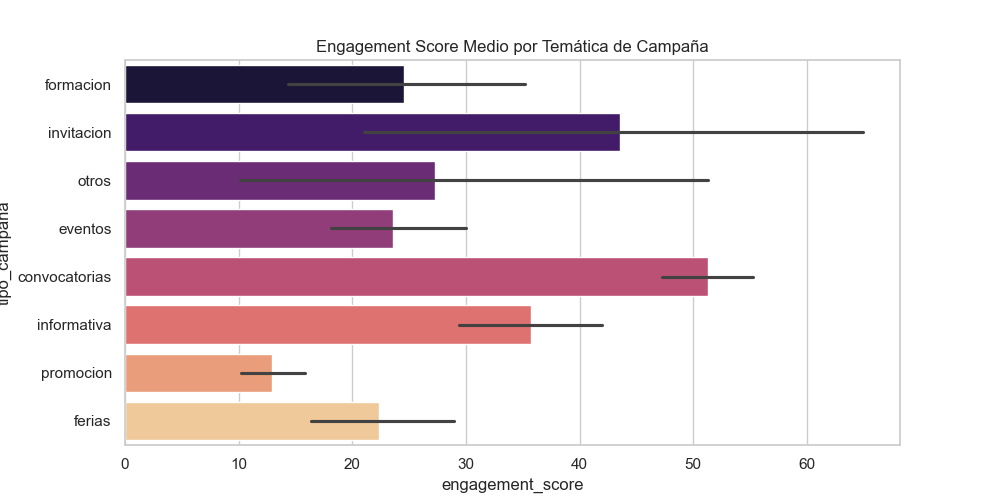
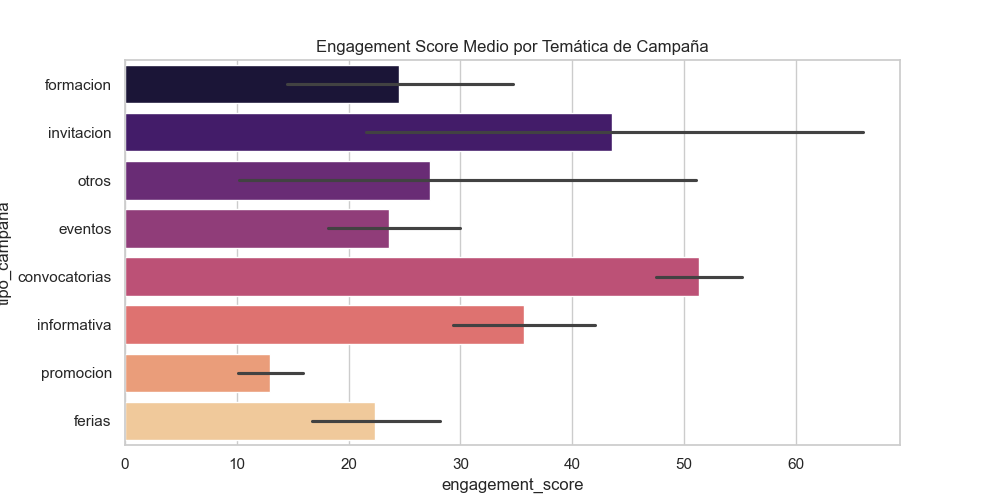
redondeo decimal

diff --git a/scripts/limpiar_datos.py b/scripts/limpiar_datos.py
@@ -2,72 +2,142 @@
 import pandas as pd
 import numpy as np
 import os
+import logging
 from scripts.utils import clasificar_campaña, clasificar_publico
 
-def limpiar_y_transformar(raw_path, processed_path):
-    """Ejecuta el pipeline de limpieza y transformación de datos."""
-    print(f"Cargando datos desde: {raw_path}...")
+# Configuración de logging
+logging.basicConfig(
+    level=logging.INFO,
+    format='%(asctime)s - %(levelname)s - %(message)s'
+)
+logger = logging.getLogger(__name__)
+
+class DataCleaner:
+    """
+    Clase para gestionar la carga, limpieza y transformación de datos de marketing.
+    """
     
-    if not os.path.exists(raw_path):
-        raise FileNotFoundError(f"Archivo no encontrado: {raw_path}")
+    def __init__(self, raw_path, processed_path):
+        self.raw_path = raw_path
+        self.processed_path = processed_path
+        self.df = None
         
-    # Cargar datos (saltando las 3 primeras filas de metadatos del exportador)
-    df = pd.read_csv(raw_path, sep=";", engine="python", skiprows=3)
-    
-    # Normalizar nombres de columnas (antes de borrar para evitar errores de case)
-    df.columns = df.columns.str.strip().str.lower().str.replace(" ", "_").str.replace("-", "_")
-    
-    # Eliminar columnas irrelevantes
-    cols_to_drop = [
-        "name_from", "email_from", "hard_bounces", 
-        "soft_bounces", "non_delivered", "delivered", 
-        "unsubscribed", "complaints"
-    ]
-    df = df.drop(columns=cols_to_drop, errors='ignore')
-    
-    # Transformar fechas
-    df['sending_date'] = pd.to_datetime(df["sending_date"], dayfirst=True, errors="coerce")
-    df['year'] = df['sending_date'].dt.year
-    df['month'] = df['sending_date'].dt.month
-    df['day'] = df['sending_date'].dt.day
-    
-    # Generar nombre del día en español
-    weekday_map = {0: 'Lunes', 1: 'Martes', 2: 'Miércoles', 3: 'Jueves', 4: 'Viernes', 5: 'Sábado', 6: 'Domingo'}
-    df['weekday'] = df['sending_date'].dt.weekday.map(weekday_map)
-    
-    # Limpiar strings de texto
-    df['subject'] = df['subject'].str.lower().str.strip()
-    df['campaign_name'] = df['campaign_name'].str.lower().str.strip()
-    
-    # Aplicar clasificaciones
-    df['tipo_campaña'] = df['subject'].apply(clasificar_campaña)
-    df['tipo_publico'] = df['campaign_name'].apply(clasificar_publico)
-    
-    # Convertir porcentajes a floats
-    cols_pct = [
-        "non_delivered_rate", "trackable_open_rate", "click_rate",
-        "click_to_open_rate", "unsubscription_rate", "delivered_rate",
-        "hard_bounces_rate", "soft_bounces_rate", "complaints_rate"
-    ]
-    
-    for col in cols_pct:
-        if col in df.columns:
-            df[col] = (
-                df[col]
-                .astype(str)
-                .str.replace("%", "")
-                .str.replace(",", ".")
-                .astype(float)
-            )
-    
-    # Asegurar que el directorio de salida existe
-    os.makedirs(os.path.dirname(processed_path), exist_ok=True)
-    
-    # Guardar datos limpios
-    df.to_csv(processed_path, index=False)
-    print(f"✅ Datos limpios guardados en: {processed_path}")
+    def load_data(self):
+        """Carga los datos desde el archivo CSV raw."""
+        logger.info(f"Cargando datos desde: {self.raw_path}...")
+        
+        if not os.path.exists(self.raw_path):
+            error_msg = f"Archivo no encontrado: {self.raw_path}"
+            logger.error(error_msg)
+            raise FileNotFoundError(error_msg)
+            
+        # Cargar datos (saltando las 3 primeras filas de metadatos del exportador)
+        self.df = pd.read_csv(self.raw_path, sep=";", engine="python", skiprows=3)
+        return self.df
+
+    def clean_data(self):
+        """Realiza la limpieza básica de columnas y tipos de datos."""
+        if self.df is None:
+            self.load_data()
+            
+        logger.info("Normalizando nombres de columnas y eliminando irrelevantes...")
+        
+        # Normalizar nombres de columnas
+        self.df.columns = (
+            self.df.columns
+            .str.strip()
+            .str.lower()
+            .str.replace(" ", "_")
+            .str.replace("-", "_")
+        )
+        
+        # Eliminar columnas irrelevantes
+        cols_to_drop = [
+            "name_from", "email_from", "hard_bounces", 
+            "soft_bounces", "non_delivered", "delivered", 
+            "unsubscribed", "complaints"
+        ]
+        self.df = self.df.drop(columns=cols_to_drop, errors='ignore')
+        
+        # Limpiar strings de texto
+        self.df['subject'] = self.df['subject'].str.lower().str.strip()
+        self.df['campaign_name'] = self.df['campaign_name'].str.lower().str.strip()
+        
+        # Convertir porcentajes a floats
+        cols_pct = [
+            "non_delivered_rate", "trackable_open_rate", "click_rate",
+            "click_to_open_rate", "unsubscription_rate", "delivered_rate",
+            "hard_bounces_rate", "soft_bounces_rate", "complaints_rate"
+        ]
+        
+        for col in cols_pct:
+            if col in self.df.columns:
+                self.df[col] = (
+                    self.df[col]
+                    .astype(str)
+                    .str.replace("%", "")
+                    .str.replace(",", ".")
+                    .astype(float)
+                )
+        
+        return self.df
+
+    def transform_data(self):
+        """Aplica transformaciones temporales y clasificaciones de negocio."""
+        if self.df is None:
+            self.clean_data()
+            
+        logger.info("Transformando fechas y aplicando clasificaciones...")
+        
+        # Transformar fechas
+        self.df['sending_date'] = pd.to_datetime(self.df["sending_date"], dayfirst=True, errors="coerce")
+        self.df['year'] = self.df['sending_date'].dt.year
+        self.df['month'] = self.df['sending_date'].dt.month
+        self.df['day'] = self.df['sending_date'].dt.day
+        
+        # Generar nombre del día en español
+        weekday_map = {0: 'Lunes', 1: 'Martes', 2: 'Miércoles', 3: 'Jueves', 4: 'Viernes', 5: 'Sábado', 6: 'Domingo'}
+        self.df['weekday'] = self.df['sending_date'].dt.weekday.map(weekday_map)
+        
+        # Aplicar clasificaciones de scripts.utils
+        self.df['tipo_campaña'] = self.df['subject'].apply(clasificar_campaña)
+        self.df['tipo_publico'] = self.df['campaign_name'].apply(clasificar_publico)
+        
+        # Redondear todos los floats a 2 decimales
+        float_cols = self.df.select_dtypes(include=['float64', 'float32']).columns
+        self.df[float_cols] = self.df[float_cols].round(2)
+        
+        return self.df
+
+    def save_data(self):
+        """Guarda el DataFrame procesado en la ruta de salida."""
+        if self.df is None:
+            self.transform_data()
+            
+        logger.info(f"Guardando datos procesados en: {self.processed_path}...")
+        
+        # Asegurar que el directorio de salida existe
+        os.makedirs(os.path.dirname(self.processed_path), exist_ok=True)
+        
+        self.df.to_csv(self.processed_path, index=False)
+        logger.info("✅ Proceso de limpieza finalizado con éxito.")
+        
+    def run(self):
+        """Ejecuta el flujo completo de limpieza y transformación."""
+        self.load_data()
+        self.clean_data()
+        self.transform_data()
+        self.save_data()
+
+def limpiar_y_transformar(raw_path, processed_path):
+    """
+    Función envoltorio para mantener compatibilidad con pipeline.py.
+    """
+    cleaner = DataCleaner(raw_path, processed_path)
+    cleaner.run()
 
 if __name__ == "__main__":
+    # Configuración de rutas para ejecución directa
     try:
         script_dir = os.path.dirname(os.path.abspath(__file__))
         BASE_DIR = os.path.abspath(os.path.join(script_dir, ".."))

diff --git a/scripts/analisis_insights.py b/scripts/analisis_insights.py
@@ -51,11 +51,12 @@ def generar_insights(project_root, show_plots=True):
 
     # --- NUEVAS MÉTRICAS DE NEGOCIO ---
     # 2.1. Engagement Score
-    df['engagement_score'] = (df['trackable_open_rate'] * 0.3) + (df['click_rate'] * 0.7)
+    df['engagement_score'] = ((df['trackable_open_rate'] * 0.3) + (df['click_rate'] * 0.7)).round(2)
 
     # 2.2. Outliers de Éxito (Click Rate > media + 2*std)
     umbral_click = df['click_rate'].mean() + (2 * df['click_rate'].std())
     campanas_top = df[df['click_rate'] > umbral_click][['subject', 'tipo_campaña', 'sending_date', 'click_rate', 'engagement_score']]
+    campanas_top = campanas_top.round(2)
     campanas_top.sort_values('engagement_score', ascending=False).to_csv(os.path.join(outputs_tablas, "campañas_top.csv"), index=False)
 
     # 2.3. Correlación Volumen vs Open Rate
@@ -65,20 +66,20 @@ def generar_insights(project_root, show_plots=True):
     # 3. GUARDADO DE TABLAS
     # ==============================
     # Estadísticas anuales y mensuales
-    df.groupby('year')[['trackable_open_rate', 'click_rate', 'engagement_score']].mean().to_csv(os.path.join(outputs_tablas, "stats_por_año.csv"))
-    df.groupby('month')[['trackable_open_rate', 'click_rate', 'engagement_score']].mean().to_csv(os.path.join(outputs_tablas, "stats_por_mes.csv"))
+    df.groupby('year')[['trackable_open_rate', 'click_rate', 'engagement_score']].mean().round(2).to_csv(os.path.join(outputs_tablas, "stats_por_año.csv"))
+    df.groupby('month')[['trackable_open_rate', 'click_rate', 'engagement_score']].mean().round(2).to_csv(os.path.join(outputs_tablas, "stats_por_mes.csv"))
 
     # Rendimiento por día de la semana
     # La columna 'weekday' ya contiene los nombres en español según la inspección de datos
     df['weekday_name'] = df['weekday']
     weekday_stats = df.groupby('weekday_name')[['trackable_open_rate', 'click_rate', 'engagement_score']].mean().reindex(['Lunes', 'Martes', 'Miércoles', 'Jueves', 'Viernes', 'Sábado', 'Domingo'])
     # Eliminar filas con NaN si algún día no tiene datos
-    weekday_stats = weekday_stats.dropna(subset=['engagement_score'])
+    weekday_stats = weekday_stats.dropna(subset=['engagement_score']).round(2)
     weekday_stats.to_csv(os.path.join(outputs_tablas, "stats_por_dia.csv"))
 
     # Estadísticas por temática y público
-    df.groupby('tipo_campaña')[['trackable_open_rate', 'click_rate', 'engagement_score']].mean().sort_values('engagement_score', ascending=False).to_csv(os.path.join(outputs_tablas, "stats_por_tematica.csv"))
-    df.groupby('tipo_publico')[['trackable_open_rate', 'click_rate', 'engagement_score']].mean().to_csv(os.path.join(outputs_tablas, "stats_publico_tipo.csv"))
+    df.groupby('tipo_campaña')[['trackable_open_rate', 'click_rate', 'engagement_score']].mean().sort_values('engagement_score', ascending=False).round(2).to_csv(os.path.join(outputs_tablas, "stats_por_tematica.csv"))
+    df.groupby('tipo_publico')[['trackable_open_rate', 'click_rate', 'engagement_score']].mean().round(2).to_csv(os.path.join(outputs_tablas, "stats_publico_tipo.csv"))
 
     print(f"📊 Tablas estadísticas guardadas en: {outputs_tablas}")
 
